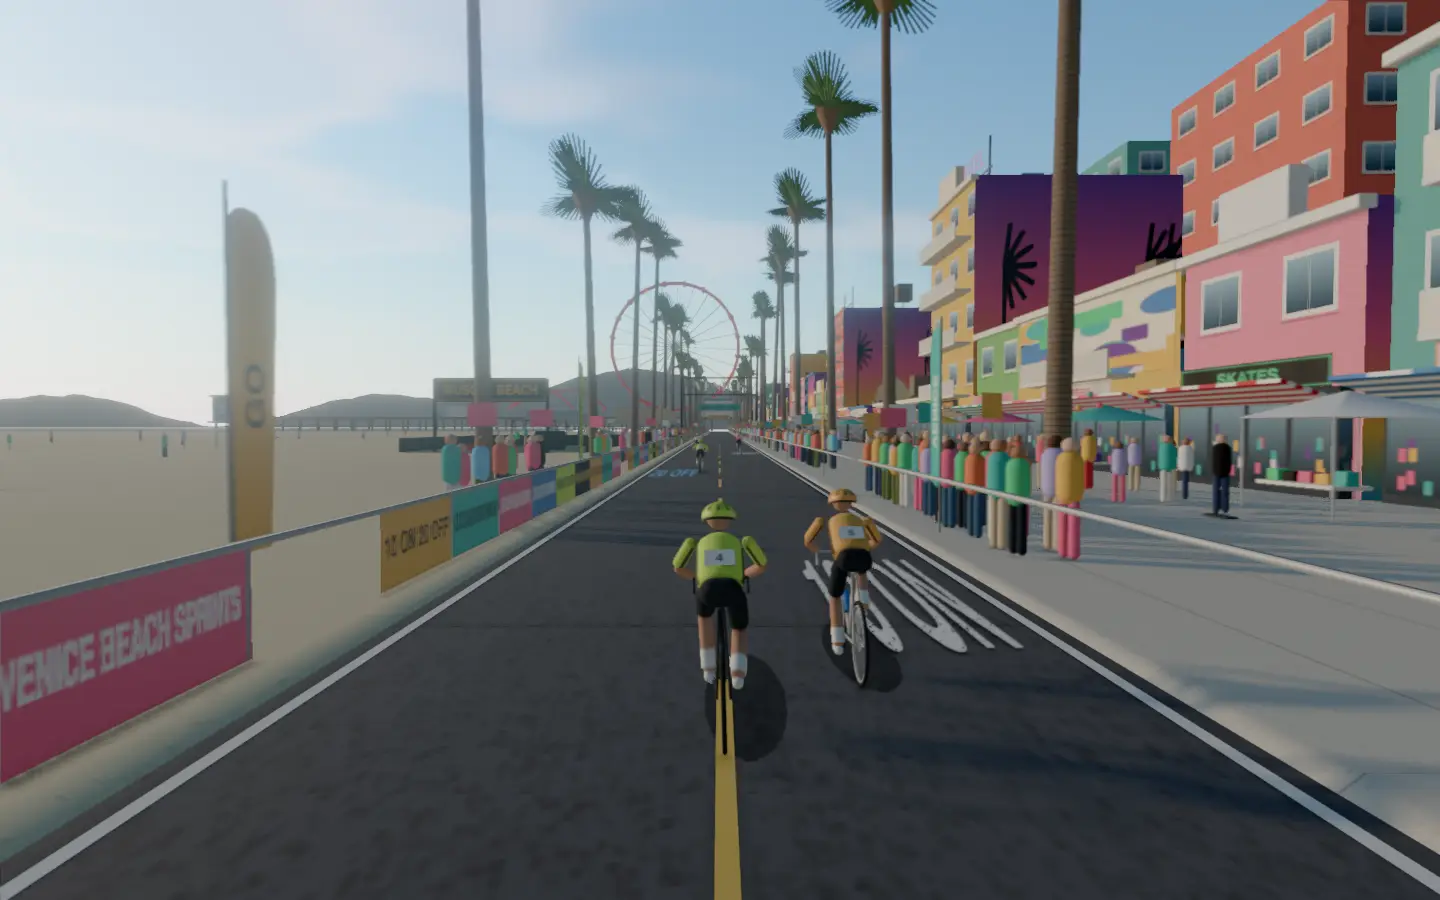
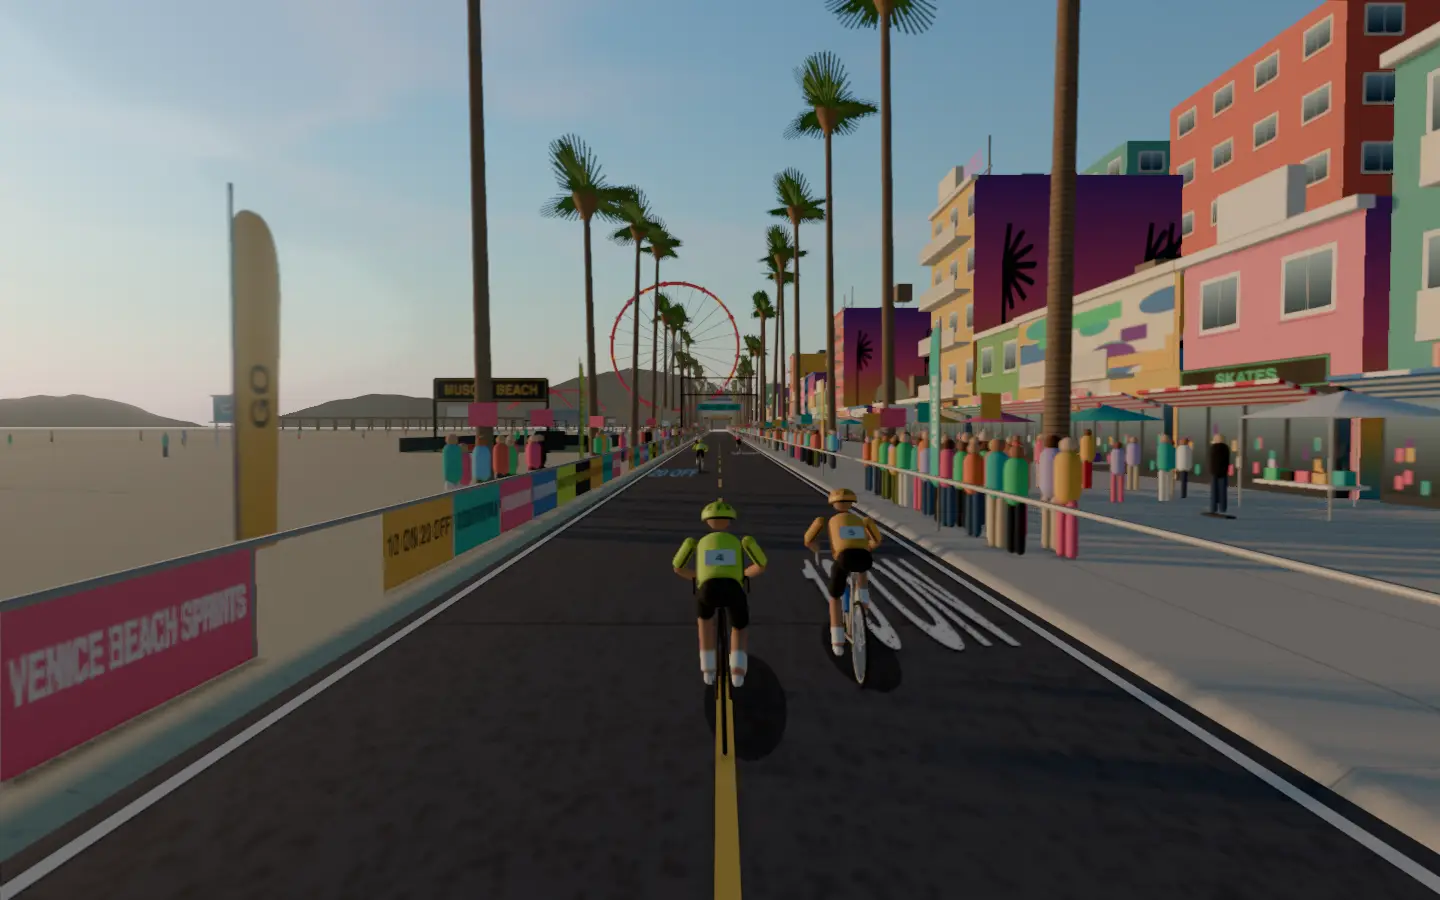
Ride Venice Beach's boardwalk at golden hour
The sun sits lower over the ocean on the rider's left, its light warm amber,
so long shadows fall across the path and the palms and end walls glow. A warm
gold marine haze deepens toward the pier and the mountains under a sky still
blue overhead, and the pier's hand-applied haze matches it. Render quality
78% -> 80% (light and atmosphere 7 -> 9).

diff --git a/frontend/projects/wattzup/src/app/core/world-renderer.ts b/frontend/projects/wattzup/src/app/core/world-renderer.ts
@@ -321,21 +321,22 @@ const LOOKS: Record<WorldId, Look> = {
     light: { sun: 3.4, fill: 1.0, colour: 0xffe2b8 },
     fogRange: [150, 2600],
   },
-  // A clear late afternoon on the Santa Monica Bay: the sun low over the ocean on the rider's
-  // left, a thin marine haze softening the pier and the mountains ahead.
+  // Golden hour on the Santa Monica Bay: the sun low over the ocean on the rider's left throws
+  // long shadows across the path, and a warm marine haze gilds the pier and the mountains ahead
+  // under a sky still blue overhead.
   venice: {
-    sky: 0x86bde6,
-    fog: 0xd6dde0,
+    sky: 0x7fb0d8,
+    fog: 0xe8d2b0,
     ground: 0xe3cfa5,
     road: 0x55565b,
-    sun: 16,
+    sun: 9,
     wet: false,
     haze: false,
-    turbidity: 4,
-    rayleigh: 1.9,
-    azimuth: -70,
-    light: { sun: 3.1, fill: 1.2, colour: 0xffe2b8 },
-    fogRange: [140, 1600],
+    turbidity: 6,
+    rayleigh: 2.3,
+    azimuth: -72,
+    light: { sun: 3.4, fill: 1.0, colour: 0xffc98c },
+    fogRange: [110, 1300],
   },
   // A spring morning on the Herengracht: soft sun behind the rider, a light haze over the water.
   amsterdam: {

diff --git a/frontend/projects/wattzup/src/app/core/world-venice.ts b/frontend/projects/wattzup/src/app/core/world-venice.ts
@@ -80,7 +80,7 @@ const MUSCLE_BEACH = 165;
 const PIER_AHEAD = 440;
 /** The pier's deck reaches across the path from the land, so the wheel stands by the vanishing point. */
 const PIER_SHORE = 70;
-const HAZE = 0xd6dde0;
+const HAZE = 0xe8d2b0;
 
 const SKINS = ['#f1c7a5', '#d9a17c', '#b67a55', '#8a5a3c', '#5e3b26', '#e2b48c'];
 const BEACHWEAR: Wardrobe = {

diff --git a/docs/class-worlds.md b/docs/class-worlds.md
@@ -16,7 +16,7 @@ Every class in `frontend/public/classes.json`, with its World Ride scene. Render
 | 10 | Sprintavals | Knicks Championship Parade | 80% | Ticker tape and orange and blue streamers drift down between the towers of lower Broadway's Canyon of Heroes as fans pack the barricades for the Knicks' championship parade, the Woolworth Building's copper crown rising at the far end. The four long builds reel in the floats rolling up Broadway, and the five ten-second sprints each jump from one float to the next before the last surge toward the Woolworth. |
 | 11 | Time Is of the Essence | Westminster Rush Hour | 60% | London at dusk beneath Big Ben; race black cabs and red buses before the clock chimes. |
 | 12 | 15-Minute Smash Fest | Rio Sambadrome (concept) |  | Carnival night in Rio; glittering samba schools fill the runway and every smash rides the drum line. |
-| 13 | 10 On 20 Off Max Sprints | Venice Beach Boardwalk | 78% | Skaters glide past street performers, mural-painted shopfronts and towering palms along Venice Beach's Ocean Front Walk, the Santa Monica Pier's Ferris wheel turning over the bay ahead. The two one-minute efforts warm up past Muscle Beach, and the eighteen ten-second sprints each burst between the palms before twenty seconds cruising in the ocean breeze. |
+| 13 | 10 On 20 Off Max Sprints | Venice Beach Boardwalk | 80% | Skaters glide past street performers, mural-painted shopfronts and towering palms along Venice Beach's Ocean Front Walk, the Santa Monica Pier's Ferris wheel turning over the bay ahead. The two one-minute efforts warm up past Muscle Beach, and the eighteen ten-second sprints each burst between the palms before twenty seconds cruising in the ocean breeze. |
 | 14 | 15 Minute Cardio HIIT | Central Park Loop | 65% | Early laps of Central Park past the reservoir and Bethesda Fountain, joggers and carriages sharing the drive. |
 | 15 | 15 Minute Strength Workout | Lisbon Tram Hills (concept) |  | Steep cobbled Alfama lanes beside yellow trams; grind each climb toward the castle above the Tagus. |
 | 16 | Low Cadence Strength Builder | Koppenberg Cobbles (concept) |  | Flemish farm lanes in spring mist; heavy gears over slick Koppenberg cobbles with crowds lining the bank. |

diff --git a/docs/detailed-designs/world-ride/draw-class-scene/README.md b/docs/detailed-designs/world-ride/draw-class-scene/README.md
@@ -150,7 +150,7 @@ None.
   - a chrome diner with its DINER sign and gas pumps under a canopy once a lap on the right, and a motel with its MOTEL and flickering VACANCY neon on the left;
   - classic cars with tail fins and a big rig coming the other way, tumbleweeds rolling across, all on the ride's clock;
   - red mesas with banded cliffs and talus slopes standing round the horizon, keeping their distance.
-- **Ocean Front Walk (`core/world-venice.ts`).** For `venice`, the bike path beside Venice Beach's boardwalk on a late afternoon:
+- **Ocean Front Walk (`core/world-venice.ts`).** For `venice`, the bike path beside Venice Beach's boardwalk at golden hour, the sun low over the ocean on the rider's left throwing long shadows across the path and a warm gold haze over the pier and the mountains ahead:
   - the path's dashed yellow centre line and white edges with the fans' writing every 25 m, race barriers hung with the race's banners on both sides, feather flags along them, cloth banners across the path and Venice's sign, VENICE in white letters on a steel frame, once a loop;
   - on the right the boardwalk's pale concrete, vendors' stalls under pop-up canopies and low stucco shops of one to three storeys in bright paint, each with a shopfront, a sign board and a striped awning, murals on some upper fronts and on the end walls facing the rider, and alleys between them. Every fifth is a beach hotel of four or five storeys with HOTEL lit on its roof, upper storeys have railed balconies, some parapets step up in the middle and the roofs carry water tanks and air conditioners, with a second row of taller apartment blocks behind;
   - tall Mexican fan palms in rows on both sides, each a thin ringed trunk, a skirt of dead fronds and a crown of fans;
